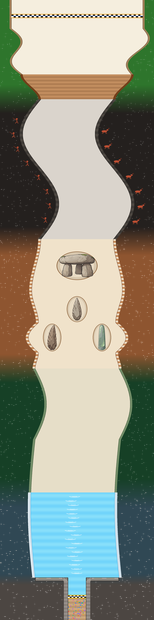
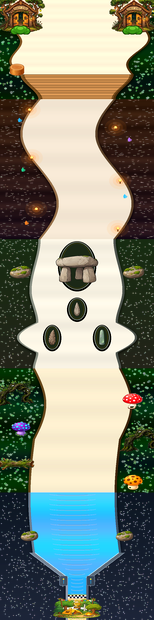
feat(race): slope finish funnel incline, dark-theme comboboxes, and enrich 3500px adventure map

diff --git a/src/KnolTeacher.Desktop/Views/Windows/StudentPickerWindow.xaml b/src/KnolTeacher.Desktop/Views/Windows/StudentPickerWindow.xaml
@@ -6,9 +6,127 @@
         mc:Ignorable="d"
         Title="🌱 뽑기 레이스 (Alt+8)" Height="740" Width="1220"
         MinHeight="620" MinWidth="960"
-        WindowStartupLocation="CenterScreen"
         Topmost="True"
         Background="#1E1E24">
+    <Window.Resources>
+        <!-- 🎨 Dark High-Contrast Race ComboBox Style -->
+        <ControlTemplate x:Key="DarkComboBoxToggleButton" TargetType="{x:Type ToggleButton}">
+            <Border x:Name="templateRoot" Background="{TemplateBinding Background}"
+                    BorderBrush="{TemplateBinding BorderBrush}" BorderThickness="{TemplateBinding BorderThickness}"
+                    CornerRadius="6" SnapsToDevicePixels="true">
+                <Border x:Name="splitBorder" Width="20" HorizontalAlignment="Right"
+                        BorderThickness="0" Background="Transparent" SnapsToDevicePixels="true">
+                    <Path x:Name="arrow" Data="F1 M 0,0 L 2.66,2.66 L 5.33,0 Z"
+                          Fill="{TemplateBinding Foreground}" HorizontalAlignment="Center" VerticalAlignment="Center"/>
+                </Border>
+            </Border>
+            <ControlTemplate.Triggers>
+                <Trigger Property="IsMouseOver" Value="true">
+                    <Setter TargetName="templateRoot" Property="Background" Value="#334155"/>
+                    <Setter TargetName="templateRoot" Property="BorderBrush" Value="#38BDF8"/>
+                </Trigger>
+            </ControlTemplate.Triggers>
+        </ControlTemplate>
+
+        <Style x:Key="DarkRaceComboBoxItem" TargetType="{x:Type ComboBoxItem}">
+            <Setter Property="SnapsToDevicePixels" Value="True"/>
+            <Setter Property="Padding" Value="8,5"/>
+            <Setter Property="Foreground" Value="#F8FAFC"/>
+            <Setter Property="Background" Value="#0F172A"/>
+            <Setter Property="FontSize" Value="11.5"/>
+            <Setter Property="FontWeight" Value="Bold"/>
+            <Setter Property="Template">
+                <Setter.Value>
+                    <ControlTemplate TargetType="{x:Type ComboBoxItem}">
+                        <Border x:Name="Bd" Background="{TemplateBinding Background}"
+                                BorderBrush="{TemplateBinding BorderBrush}"
+                                BorderThickness="{TemplateBinding BorderThickness}"
+                                Padding="{TemplateBinding Padding}"
+                                CornerRadius="4" Margin="2,1"
+                                SnapsToDevicePixels="true">
+                            <ContentPresenter HorizontalAlignment="{TemplateBinding HorizontalContentAlignment}"
+                                              VerticalAlignment="{TemplateBinding VerticalContentAlignment}"
+                                              SnapsToDevicePixels="{TemplateBinding SnapsToDevicePixels}"/>
+                        </Border>
+                        <ControlTemplate.Triggers>
+                            <Trigger Property="IsHighlighted" Value="true">
+                                <Setter TargetName="Bd" Property="Background" Value="#2563EB"/>
+                                <Setter Property="Foreground" Value="#FFFFFF"/>
+                            </Trigger>
+                            <Trigger Property="IsSelected" Value="true">
+                                <Setter TargetName="Bd" Property="Background" Value="#1D4ED8"/>
+                                <Setter Property="Foreground" Value="#FDE047"/>
+                            </Trigger>
+                        </ControlTemplate.Triggers>
+                    </ControlTemplate>
+                </Setter.Value>
+            </Setter>
+        </Style>
+
+        <Style x:Key="DarkRaceComboBox" TargetType="{x:Type ComboBox}">
+            <Setter Property="FocusVisualStyle" Value="{x:Null}"/>
+            <Setter Property="Background" Value="#1E293B"/>
+            <Setter Property="BorderBrush" Value="#475569"/>
+            <Setter Property="Foreground" Value="#F8FAFC"/>
+            <Setter Property="BorderThickness" Value="1"/>
+            <Setter Property="ScrollViewer.HorizontalScrollBarVisibility" Value="Auto"/>
+            <Setter Property="ScrollViewer.VerticalScrollBarVisibility" Value="Auto"/>
+            <Setter Property="Padding" Value="8,2,22,2"/>
+            <Setter Property="ScrollViewer.CanContentScroll" Value="true"/>
+            <Setter Property="ScrollViewer.PanningMode" Value="Both"/>
+            <Setter Property="Stylus.IsFlicksEnabled" Value="False"/>
+            <Setter Property="ItemContainerStyle" Value="{StaticResource DarkRaceComboBoxItem}"/>
+            <Setter Property="Template">
+                <Setter.Value>
+                    <ControlTemplate TargetType="{x:Type ComboBox}">
+                        <Grid x:Name="templateRoot" SnapsToDevicePixels="true">
+                            <Popup x:Name="PART_Popup" AllowsTransparency="true"
+                                   IsOpen="{Binding IsDropDownOpen, Mode=TwoWay, RelativeSource={RelativeSource TemplatedParent}}"
+                                   Placement="Bottom" PopupAnimation="{DynamicResource {x:Static SystemParameters.ComboBoxPopupAnimationKey}}">
+                                <Border x:Name="dropDownBorder" MaxHeight="{TemplateBinding MaxDropDownHeight}"
+                                        MinWidth="{Binding ActualWidth, ElementName=templateRoot}"
+                                        Background="#0F172A" BorderBrush="#38BDF8" BorderThickness="1.5"
+                                        CornerRadius="8" Padding="3" Margin="0,2,0,0">
+                                    <Border.Effect>
+                                        <DropShadowEffect BlurRadius="12" Color="#000000" Opacity="0.85" ShadowDepth="4"/>
+                                    </Border.Effect>
+                                    <ScrollViewer x:Name="DropDownScrollViewer" MaxHeight="220" Margin="0" Focusable="false">
+                                        <ItemsPresenter x:Name="ItemsPresenter" KeyboardNavigation.DirectionalNavigation="Contained" SnapsToDevicePixels="{TemplateBinding SnapsToDevicePixels}"/>
+                                    </ScrollViewer>
+                                </Border>
+                            </Popup>
+                            <ToggleButton x:Name="toggleButton" Background="{TemplateBinding Background}"
+                                          BorderBrush="{TemplateBinding BorderBrush}" BorderThickness="{TemplateBinding BorderThickness}"
+                                          Foreground="{TemplateBinding Foreground}"
+                                          IsChecked="{Binding IsDropDownOpen, Mode=TwoWay, RelativeSource={RelativeSource TemplatedParent}}"
+                                          Template="{StaticResource DarkComboBoxToggleButton}"/>
+                            <ContentPresenter x:Name="contentPresenter"
+                                              ContentStringFormat="{TemplateBinding SelectionBoxItemStringFormat}"
+                                              ContentTemplate="{TemplateBinding SelectionBoxItemTemplate}"
+                                              Content="{TemplateBinding SelectionBoxItem}"
+                                              ContentTemplateSelector="{TemplateBinding ItemTemplateSelector}"
+                                              HorizontalAlignment="{TemplateBinding HorizontalContentAlignment}"
+                                              IsHitTestVisible="false"
+                                              Margin="{TemplateBinding Padding}"
+                                              SnapsToDevicePixels="{TemplateBinding SnapsToDevicePixels}"
+                                              VerticalAlignment="{TemplateBinding VerticalContentAlignment}"/>
+                        </Grid>
+                        <ControlTemplate.Triggers>
+                            <Trigger Property="HasItems" Value="false">
+                                <Setter TargetName="dropDownBorder" Property="MinHeight" Value="95"/>
+                            </Trigger>
+                            <Trigger Property="IsGrouping" Value="true">
+                                <Setter Property="ScrollViewer.CanContentScroll" Value="false"/>
+                            </Trigger>
+                            <Trigger Property="IsMouseOver" Value="true">
+                                <Setter Property="BorderBrush" Value="#38BDF8"/>
+                            </Trigger>
+                        </ControlTemplate.Triggers>
+                    </ControlTemplate>
+                </Setter.Value>
+            </Setter>
+        </Style>
+    </Window.Resources>
 
     <Grid>
         <Grid.RowDefinitions>
@@ -38,13 +156,15 @@
                 </StackPanel>
 
                 <!-- Center: Configurable Race Topic Banner -->
-                <StackPanel x:Name="PanelTitle" Grid.Column="1" Orientation="Horizontal" HorizontalAlignment="Center" VerticalAlignment="Center" MaxWidth="420">
-                    <TextBox x:Name="TbRaceTitle" Text="이번엔 1등, 꼴등이 받아요"
-                             FontSize="18" FontWeight="Bold" Foreground="White"
-                             Background="Transparent" BorderThickness="0"
-                             TextAlignment="Center" VerticalAlignment="Center"
-                             MaxWidth="310"
-                             Cursor="IBeam" ToolTip="클릭하여 이번 뽑기 레이스 제목을 직접 수정할 수 있습니다"/>
+                <StackPanel x:Name="PanelTitle" Grid.Column="1" Orientation="Horizontal" HorizontalAlignment="Center" VerticalAlignment="Center" MaxWidth="440">
+                    <Border Background="#26000000" CornerRadius="8" Padding="10,3" BorderBrush="#334155" BorderThickness="1">
+                        <TextBox x:Name="TbRaceTitle" Text="이번엔 1등, 꼴등이 받아요"
+                                 FontSize="17" FontWeight="Bold" Foreground="#FDE047"
+                                 Background="Transparent" BorderThickness="0"
+                                 TextAlignment="Center" VerticalAlignment="Center"
+                                 MaxWidth="310"
+                                 Cursor="IBeam" ToolTip="클릭하여 이번 뽑기 레이스 제목을 직접 수정할 수 있습니다"/>
+                    </Border>
                     <Button x:Name="BtnHideTitle" Content="제목 숨기기" Click="BtnHideTitle_Click"
                             Margin="8,0,0,0" Padding="6,3" FontSize="10.5"
                             Background="#27272A" Foreground="#A1A1AA" BorderBrush="#3F3F46" BorderThickness="1" Cursor="Hand">
@@ -56,9 +176,10 @@
                 <StackPanel Grid.Column="2" Orientation="Horizontal" VerticalAlignment="Center">
                     <!-- Target Winner Count Picker -->
                     <StackPanel Orientation="Horizontal" VerticalAlignment="Center" Margin="0,0,10,0">
-                        <TextBlock Text="⭐ 순위" FontSize="11.5" FontWeight="Bold" Foreground="#E4E4E7" VerticalAlignment="Center" Margin="0,0,5,0"/>
-                        <ComboBox x:Name="CbWinnerCount" Width="66" Height="28" FontSize="11.5" FontWeight="Bold"
-                                  Background="#27272A" Foreground="White" BorderBrush="#3F3F46" VerticalContentAlignment="Center">
+                        <TextBlock Text="⭐ 순위" FontSize="11.5" FontWeight="Bold" Foreground="#E4E4E7" VerticalAlignment="Center" Margin="0,0,6,0"/>
+                        <ComboBox x:Name="CbWinnerCount" Width="72" Height="28" FontSize="11.5" FontWeight="Bold"
+                                  Style="{StaticResource DarkRaceComboBox}"
+                                  VerticalContentAlignment="Center">
                             <ComboBoxItem Content="1명" IsSelected="True"/>
                             <ComboBoxItem Content="2명"/>
                             <ComboBoxItem Content="3명"/>
@@ -178,11 +299,11 @@
 
                 <!-- 🎥 Floating Camera Viewpoint Control HUD -->
                 <Border x:Name="BorderCameraHud" HorizontalAlignment="Center" VerticalAlignment="Top"
-                        Margin="0,12,0,0" Background="#E60F172A" CornerRadius="18"
+                        Margin="0,12,0,0" Background="#F00F172A" CornerRadius="18"
                         BorderBrush="#38BDF8" BorderThickness="1.5" Padding="8,4"
                         Panel.ZIndex="10">
                     <Border.Effect>
-                        <DropShadowEffect BlurRadius="16" Color="#000000" Opacity="0.75"/>
+                        <DropShadowEffect BlurRadius="16" Color="#000000" Opacity="0.85"/>
                     </Border.Effect>
                     <StackPanel Orientation="Horizontal" VerticalAlignment="Center">
                         <!-- Prev Rank Button -->
@@ -194,12 +315,13 @@
                         </Button>
 
                         <TextBlock Text="🎥" FontSize="13" VerticalAlignment="Center" Margin="2,0,4,0"/>
-                        <TextBlock Text="시점:" FontSize="11" FontWeight="Bold" Foreground="#94A3B8" VerticalAlignment="Center" Margin="0,0,4,0"/>
+                        <TextBlock Text="시점:" FontSize="11.5" FontWeight="Bold" Foreground="#F1F5F9" VerticalAlignment="Center" Margin="0,0,6,0"/>
 
                         <!-- Rank Selection ComboBox -->
                         <ComboBox x:Name="CbCameraRank" SelectionChanged="CbCameraRank_SelectionChanged"
-                                  Width="120" Height="26" FontSize="11" FontWeight="Bold"
-                                  Background="#1E293B" Foreground="#FDE047" BorderBrush="#334155"
+                                  Style="{StaticResource DarkRaceComboBox}"
+                                  Width="126" Height="26" FontSize="11.5" FontWeight="Bold"
+                                  Foreground="#FDE047"
                                   VerticalContentAlignment="Center" Margin="0,0,4,0" Cursor="Hand"
                                   ToolTip="시점을 맞출 등수를 선택하세요 (1등, 2등, 3등, 14등, 꼴등 등)">
                         </ComboBox>

diff --git a/src/KnolTeacher.Desktop/Views/Windows/StudentPickerWindow.xaml.cs b/src/KnolTeacher.Desktop/Views/Windows/StudentPickerWindow.xaml.cs
@@ -135,19 +135,27 @@ public partial class StudentPickerWindow : Window
             left = c - hw;
             right = c + hw;
         }
-        else if (y <= 3260.0)
+        else if (y <= 3120.0)
         {
-            // Prehistoric River Rapids Flume (stays wide 370px until 3260!)
-            double t = (y - 2480.0) / (3260.0 - 2480.0);
+            // Prehistoric River Rapids Flume (stays wide 370px until 3120)
+            double t = (y - 2480.0) / (3120.0 - 2480.0);
             double c = 340.0 - 20.0 * Math.Sin(t * Math.PI);
             double hw = 185.0; // width 370
             left = c - hw;
             right = c + hw;
         }
+        else if (y <= 3260.0)
+        {
+            // Funnel Incline: 출구(중앙 80px 협곡 입구)를 향해 기울어진 경사 둑 (Y = 3120 ~ 3260)
+            // 편평한 턱을 완전히 없애고 출구 방향으로 자연스럽게 폭이 370px에서 80px로 좁아짐
+            double t = (y - 3120.0) / (3260.0 - 3120.0);
+            double hw = 185.0 - (185.0 - 40.0) * t; // 185 -> 40
+            left = 340.0 - hw;
+            right = 340.0 + hw;
+        }
         else
         {
             // Narrow 80px Finish Canyon Chute (Y = 3260 ~ 3500, width 80px, hw = 40)
-            // Perfectly straight vertical canyon walls, NO diagonal slide ramp!
             double c = 340.0;
             double hw = 40.0; // [300, 380]
             left = c - hw;
@@ -792,7 +800,7 @@ public partial class StudentPickerWindow : Window
                 }
             }
 
-            // 1. Continuous Outer Track Boundaries (Zero wall penetration & Funnel sliding assist)
+            // 1. Continuous Outer Track Boundaries (Zero wall penetration & Funnel incline assist)
             GetTrackBoundaries(r.Y, out double leftWall, out double rightWall);
             if (r.X - r.Radius < leftWall)
             {
@@ -804,8 +812,17 @@ public partial class StudentPickerWindow : Window
                 }
                 else
                 {
-                    // Regular bouncy wall collision (끝의 깔대기 구간도 미끄러지지 않고 기존 벽면처럼 통-! 튕김)
-                    r.Vx = Math.Abs(r.Vx) * 0.8 + 35.0;
+                    if (r.Y >= 3100.0 && r.Y <= 3265.0)
+                    {
+                        // 출구를 향해 기울어진 좌측 경사 둑: 중앙 출구 방향(우하향)으로 통통 튕기며 자연스럽게 진입
+                        r.Vx = Math.Max(Math.Abs(r.Vx) * 0.75 + 40.0, 50.0);
+                        r.Vy = Math.Max(r.Vy * 0.9 + 25.0, 100.0);
+                    }
+                    else
+                    {
+                        // Regular bouncy wall collision
+                        r.Vx = Math.Abs(r.Vx) * 0.8 + 35.0;
+                    }
                 }
             }
             else if (r.X + r.Radius > rightWall)
@@ -818,26 +835,17 @@ public partial class StudentPickerWindow : Window
                 }
                 else
                 {
-                    // Regular bouncy wall collision (끝의 깔대기 구간도 미끄러지지 않고 기존 벽면처럼 통-! 튕김)
-                    r.Vx = -Math.Abs(r.Vx) * 0.8 - 35.0;
-                }
-            }
-
-            // Horizontal Stone Riverbank Barrier at Y = 3260 (outside the 80px chute: X < 300 or X > 380)
-            // No diagonal slide ramp! Bounces cleanly upward and nudges toward central 80px canyon chute!
-            if (r.Y + r.Radius >= 3260.0 && r.Y - r.Radius < 3278.0)
-            {
-                if (r.X < 300.0)
-                {
-                    r.Y = 3260.0 - r.Radius;
-                    r.Vy = -Math.Abs(r.Vy) * 0.7 - 45.0;
-                    r.Vx = Math.Max(r.Vx + 60.0, 50.0);
-                }
-                else if (r.X > 380.0)
-                {
-                    r.Y = 3260.0 - r.Radius;
-                    r.Vy = -Math.Abs(r.Vy) * 0.7 - 45.0;
-                    r.Vx = Math.Min(r.Vx - 60.0, -50.0);
+                    if (r.Y >= 3100.0 && r.Y <= 3265.0)
+                    {
+                        // 출구를 향해 기울어진 우측 경사 둑: 중앙 출구 방향(좌하향)으로 통통 튕기며 자연스럽게 진입
+                        r.Vx = Math.Min(-Math.Abs(r.Vx) * 0.75 - 40.0, -50.0);
+                        r.Vy = Math.Max(r.Vy * 0.9 + 25.0, 100.0);
+                    }
+                    else
+                    {
+                        // Regular bouncy wall collision
+                        r.Vx = -Math.Abs(r.Vx) * 0.8 - 35.0;
+                    }
                 }
             }
 
